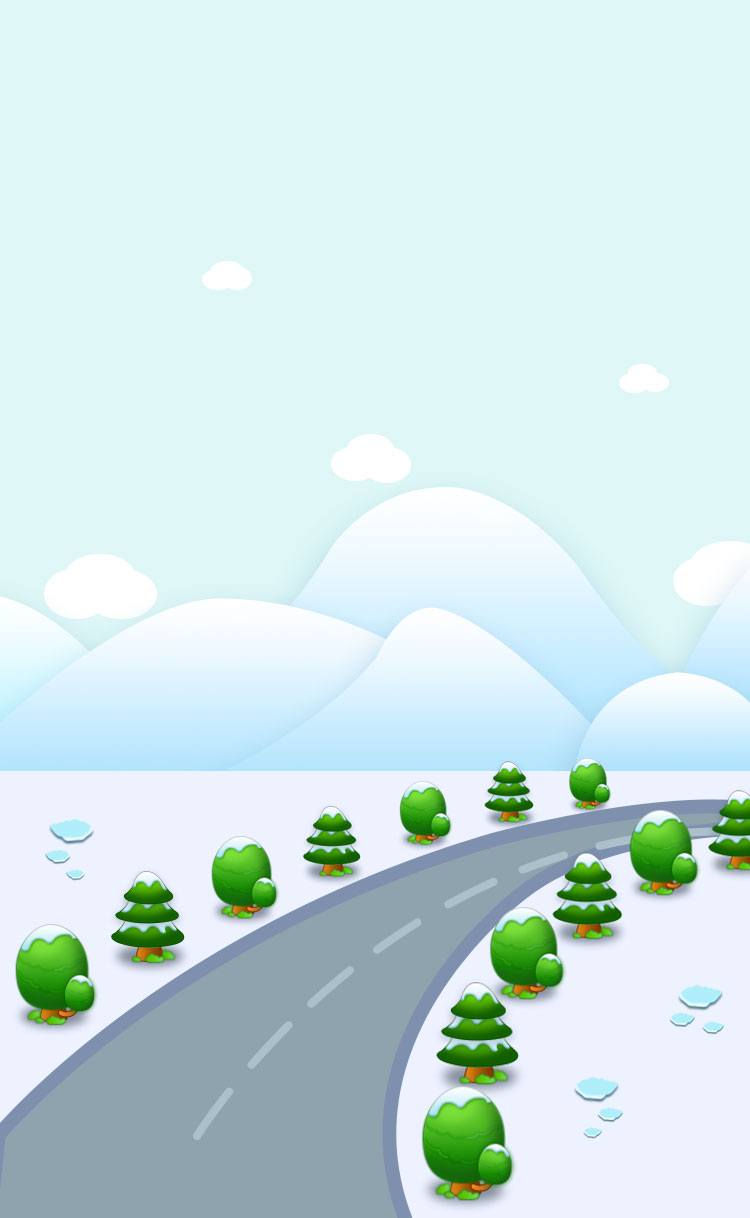
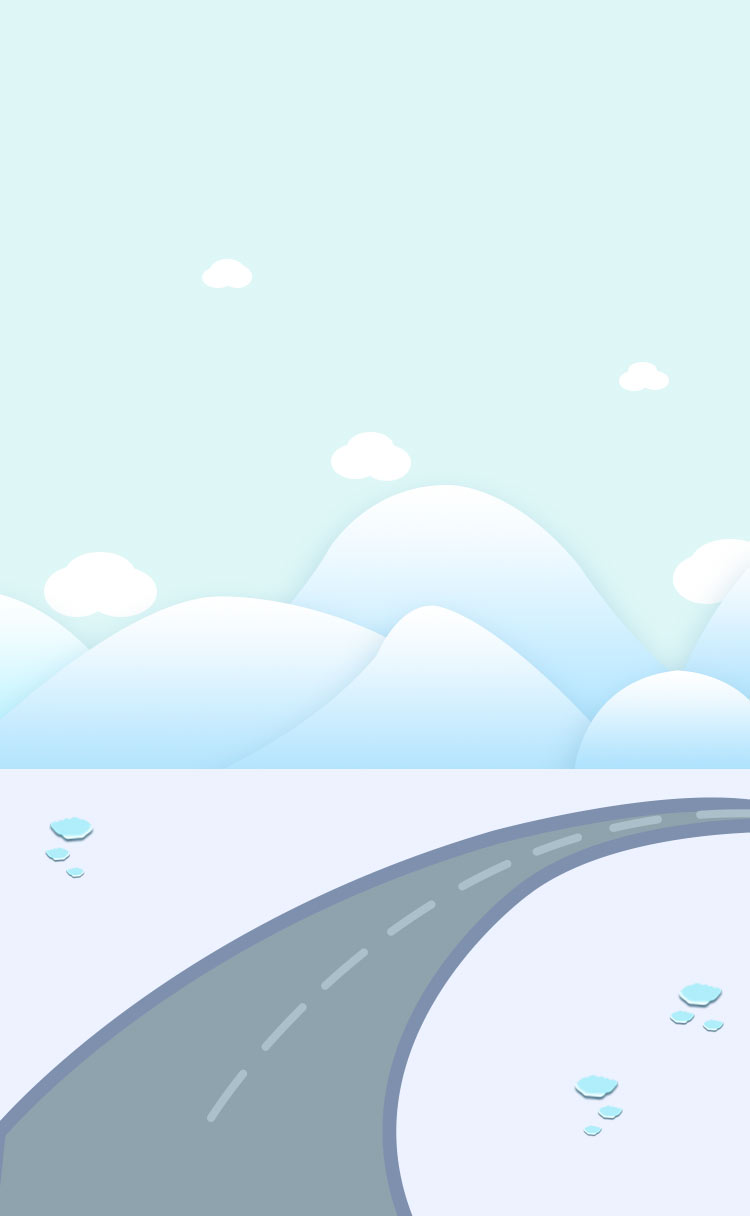
a

diff --git a/components/css/base.scss b/components/css/base.scss
@@ -3,16 +3,20 @@
     border-color: #bf1616;
     box-shadow: 0 0 0 2px rgba(191, 22, 22, 0.1);
 }*/
-
 @mixin pos($v) {
   @if
   $v == a {
-  position: absolute;
-} @else if $v == r {
-  position: relative;
-} @else if $v == f {
-  position: fixed;
-}
+    position: absolute;
+  }
+
+  @else if $v == r {
+    position: relative;
+  }
+
+  @else if $v == f {
+    position: fixed;
+  }
+
 }
 
 @mixin br($v:50%) {
@@ -52,10 +56,7 @@
   transition: $v;
 }
 
-@mixin transitionTimingFunction($v:cubic-bezier(1, -0.025, 1, 0.865)
-
-)
-{
+@mixin transitionTimingFunction($v:cubic-bezier(1, -0.025, 1, 0.865)) {
   -webkit-transition-timing-function: $v;
   transition-timing-function: $v;
 }
@@ -98,7 +99,7 @@
   background: -ms-linear-gradient(left, rgba(204, 204, 204, .2), rgba(204, 204, 204, 1) 50%, rgba(204, 204, 204, .2));
 }
 
-@mixin fly-v-gradient-line($minOpacity:.2,$maxOpacity:1) {
+@mixin fly-v-gradient-line($minOpacity:.2, $maxOpacity:1) {
   background: -webkit-gradient(linear, left top, left bottom, from(rgba(204, 204, 204, $minOpacity)), color-stop(0.5, rgba(204, 204, 204, $maxOpacity)), to(rgba(204, 204, 204, $minOpacity)));
   background: -moz-linear-gradient(top, rgba(204, 204, 204, $minOpacity), rgba(204, 204, 204, $maxOpacity) 50%, rgba(204, 204, 204, $minOpacity));
   background: -ms-linear-gradient(top, rgba(204, 204, 204, $minOpacity), rgba(204, 204, 204, $maxOpacity) 50%, rgba(204, 204, 204, $minOpacity));
@@ -110,18 +111,18 @@
   flex-flow: $v;
 }
 
-.lt-full{
-   width:100%;
-   height: 100%;
-   @include pos(a);
-   left: 0;
-   top: 0;
+.lt-full {
+  width: 100%;
+  height: 100%;
+  @include pos(a);
+  left: 0;
+  top: 0;
 }
 
-.zmiti-text-overflow{
-    overflow: hidden;
-    white-space:nowrap;
-    word-break:break-all;
-    text-overflow:ellipsis;
-    -webkit-text-overflow:ellipsis;
+.zmiti-text-overflow {
+  overflow: hidden;
+  white-space: nowrap;
+  word-break: break-all;
+  text-overflow: ellipsis;
+  -webkit-text-overflow: ellipsis;
 }

diff --git a/components/index.vue b/components/index.vue
@@ -12,6 +12,19 @@
 
 		<canvas ref="canvas" :width='viewW' :height='viewH'></canvas>
 
+		<div class="zmiti-tree1">
+			<img :src="imgs.tree1" alt="">
+		</div>
+
+
+		<div class="zmiti-tree2">
+			<img :src="imgs.tree2" alt="">
+		</div>
+
+		<div class="zmiti-snows" :style="{opacity:snowOpacity,WebkitTransform:'scaleY('+scaleY+')'}">
+			
+		</div>
+
 	</div>
 </template>
 
@@ -28,7 +41,9 @@
 				viewW:window.innerWidth,
 				viewH:window.innerHeight,
 				hide:false,
-				render:false,
+				render:true,
+				snowOpacity:0,
+				scaleY:1,
 			}
 		},
 		methods:{
@@ -54,18 +69,22 @@
 	  	  		var zmitiRequestAnimationFrame = window.requestAnimationFrame || window.webkitRequestAnimationFrame;
 
 	  	  		var rem = this.viewW/10;
+	  	  		var scale = .002;
+
 	  	  		var render =()=>{
 	  	  		 	context.clearRect(0, 0, this.viewW, this.viewH)
 	    			 snowArr.forEach(snow=>{
 		  				snow.alive && snow.fly()
 		  			});
-
+	    			this.snowOpacity+=scale;
+	    			if(this.snowOpacity>=1 || this.snowOpacity<=0){
+	    				scale*=-1;
+ 
+	    			}
 	    			this.render &&  zmitiRequestAnimationFrame(render);
 	  	  		 }
 
 	  	  		 render();
-
-
 			},
 			entryMain(){
 				

diff --git a/components/css/index.css b/components/css/index.css
@@ -47,6 +47,27 @@
     position: absolute;
     left: 0;
     top: 0; }
+  .zmiti-index-main-ui .zmiti-tree1, .zmiti-index-main-ui .zmiti-tree2 {
+    position: absolute;
+    width: 4.6rem;
+    bottom: .2rem;
+    right: -.5rem; }
+  .zmiti-index-main-ui .zmiti-tree2 {
+    left: 0;
+    right: auto;
+    width: 9rem;
+    bottom: 2.4rem; }
+  .zmiti-index-main-ui .zmiti-snows {
+    -webkit-transform-origin: top;
+    transform-origin: top;
+    width: 100%;
+    height: 6rem;
+    background: #fff;
+    z-index: -1;
+    opacity: 0;
+    bottom: 0;
+    position: absolute;
+    left: 0; }
   .zmiti-index-main-ui .zmiti-road {
     display: none;
     width: 15rem;

diff --git a/components/css/index.scss b/components/css/index.scss
@@ -33,6 +33,32 @@
 		top: 0;
 	}
 
+	.zmiti-tree1, .zmiti-tree2 {
+		@include pos(a);
+		width: 4.6rem;
+		bottom: .2rem;
+		right: -.5rem;
+	}
+
+	.zmiti-tree2 {
+		left: 0;
+		right: auto;
+		width: 9rem;
+		bottom: 2.4rem;
+	}
+
+	.zmiti-snows {
+		@include transformOrigin(top);
+		width: 100%;
+		height: 6rem;
+		background: #fff;
+		z-index: -1;
+		opacity: 0;
+		bottom: 0;
+		@include pos(a);
+		left: 0;
+	}
+
 	.zmiti-road {
 		display: none;
 		width: 15rem;

diff --git a/components/assets.js b/components/assets.js
@@ -16,6 +16,8 @@ var imgs = {
 	share: './assets/images/share.png',
 	title: './assets/images/title.png',
 	start: './assets/images/start.png',
+	tree1: './assets/images/tree1.png',
+	tree2: './assets/images/tree2.png',
 	index: './assets/images/index.jpg',
 }
 export default imgs;

diff --git a/components/main.vue b/components/main.vue
@@ -117,7 +117,7 @@ export default {
       triggerTransY:0,
       clickIndex:-1,//点击的索引。
       iNow:-1, 
-      gameover:true,
+      gameover:false,
       scoreNum:new Array(11),
       index:0,
       snowArr,
